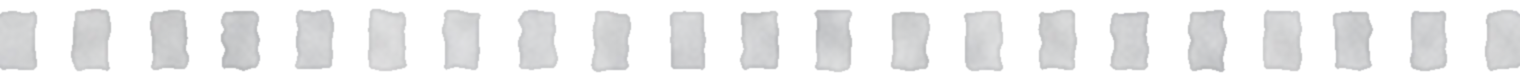
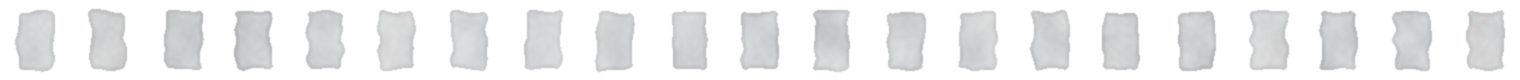
Rumble strips span the full content width at every screen size
Claude-Session: https://claude.ai/code/session_01BJMedRvjP4BX5nhiHvoeS7

diff --git a/css/site.css b/css/site.css
@@ -1097,8 +1097,8 @@ img.seal { display: block; object-fit: contain; }
 
 /* rumble strips: grey watercolor bars in the gap between case studies */
 .entry + .entry::before {
-  content: ""; position: absolute; left: 50%; top: calc(clamp(72px, 10vw, 120px) / -2);
-  width: min(100%, 760px); height: 40px; transform: translate(-50%, -50%);
-  background: url("../images/rumble.webp") center / 760px 40px no-repeat; pointer-events: none;
+  content: ""; position: absolute; left: 0; right: 0; top: calc(clamp(72px, 10vw, 120px) / -2);
+  height: 40px; transform: translateY(-50%);
+  background: url("../images/rumble.webp") left center / 760px 40px; background-repeat: round no-repeat; pointer-events: none;
 }
-.entry:nth-child(odd) + .entry::before { transform: translate(-50%, -50%) scaleX(-1); }
+.entry:nth-child(odd) + .entry::before { transform: translateY(-50%) scaleX(-1); }
